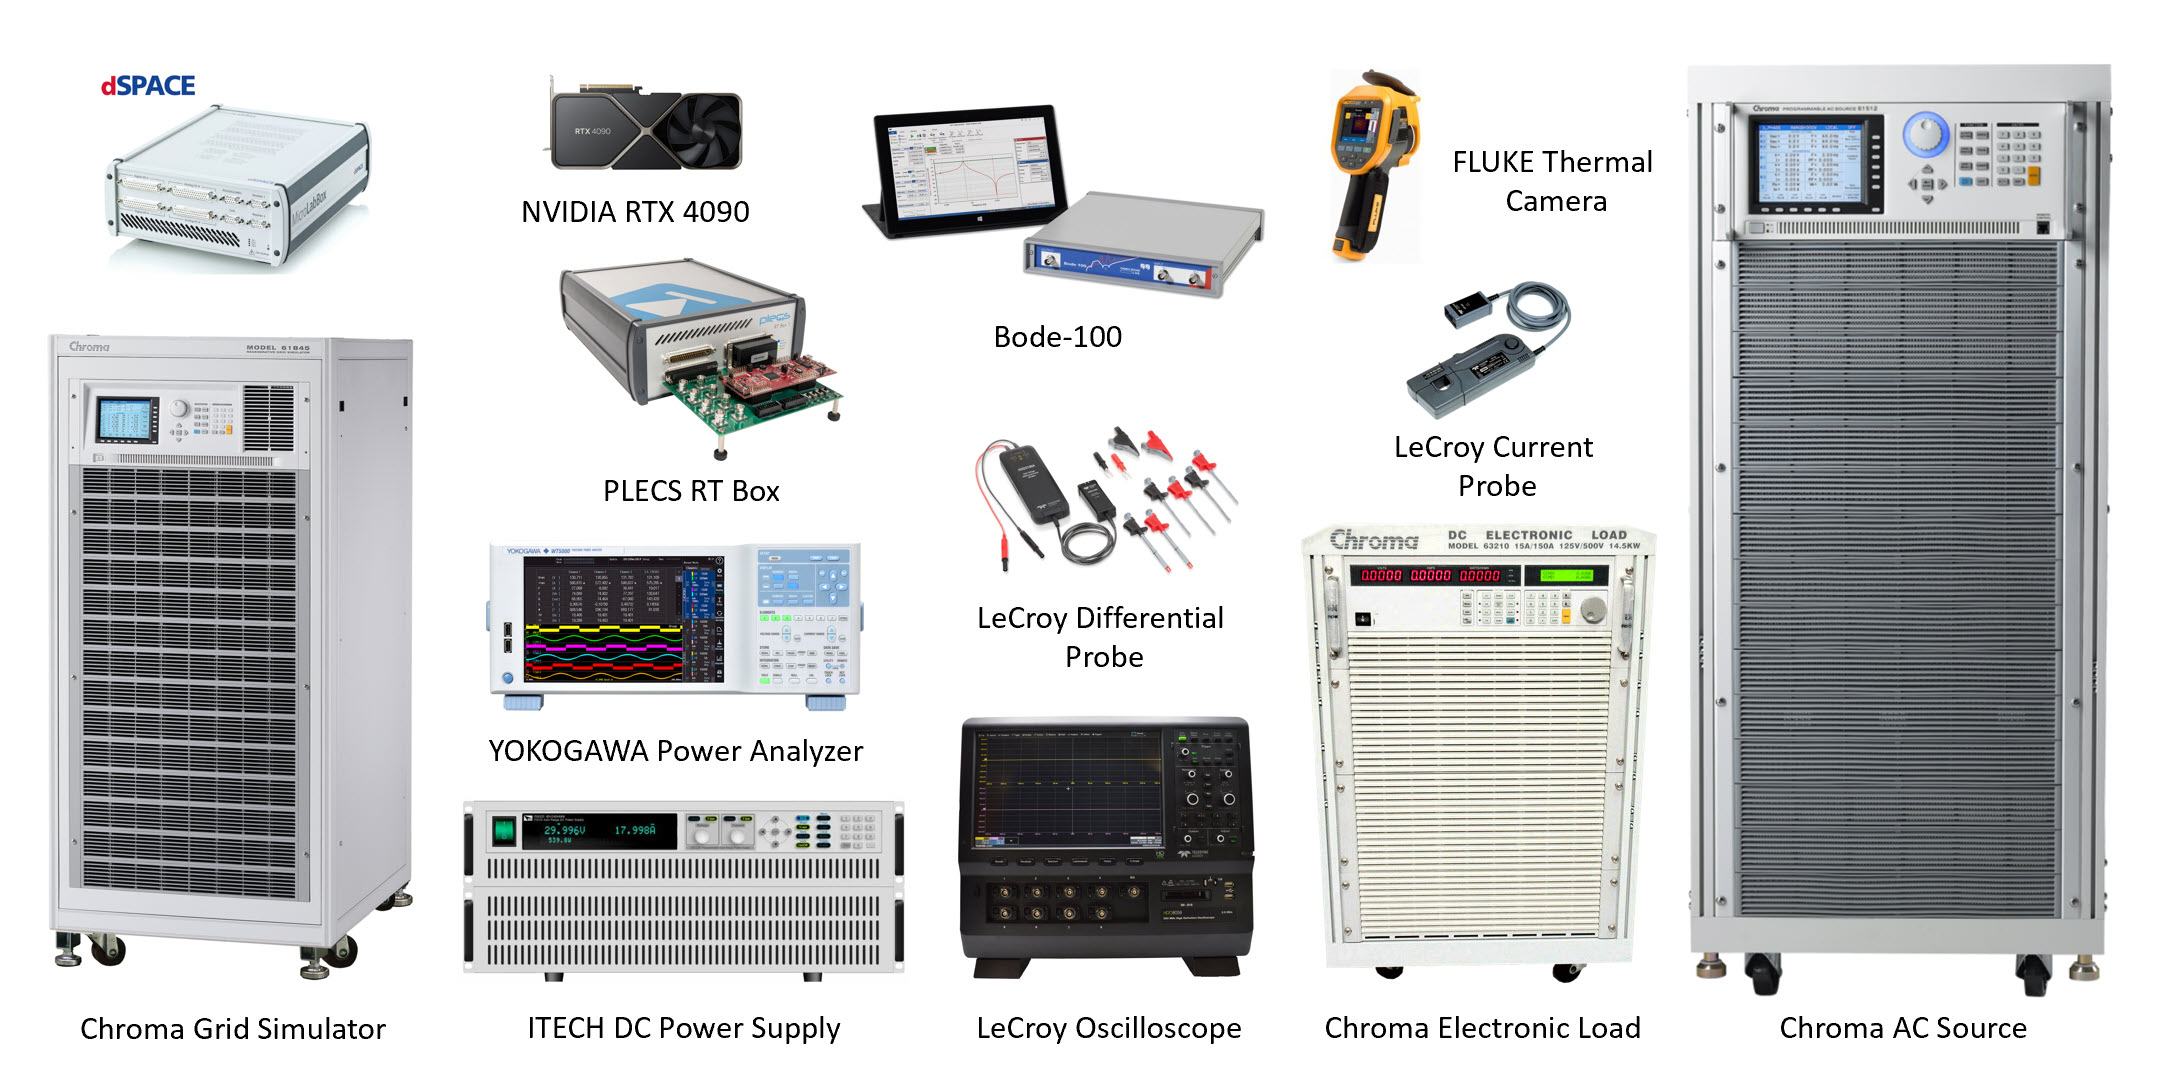
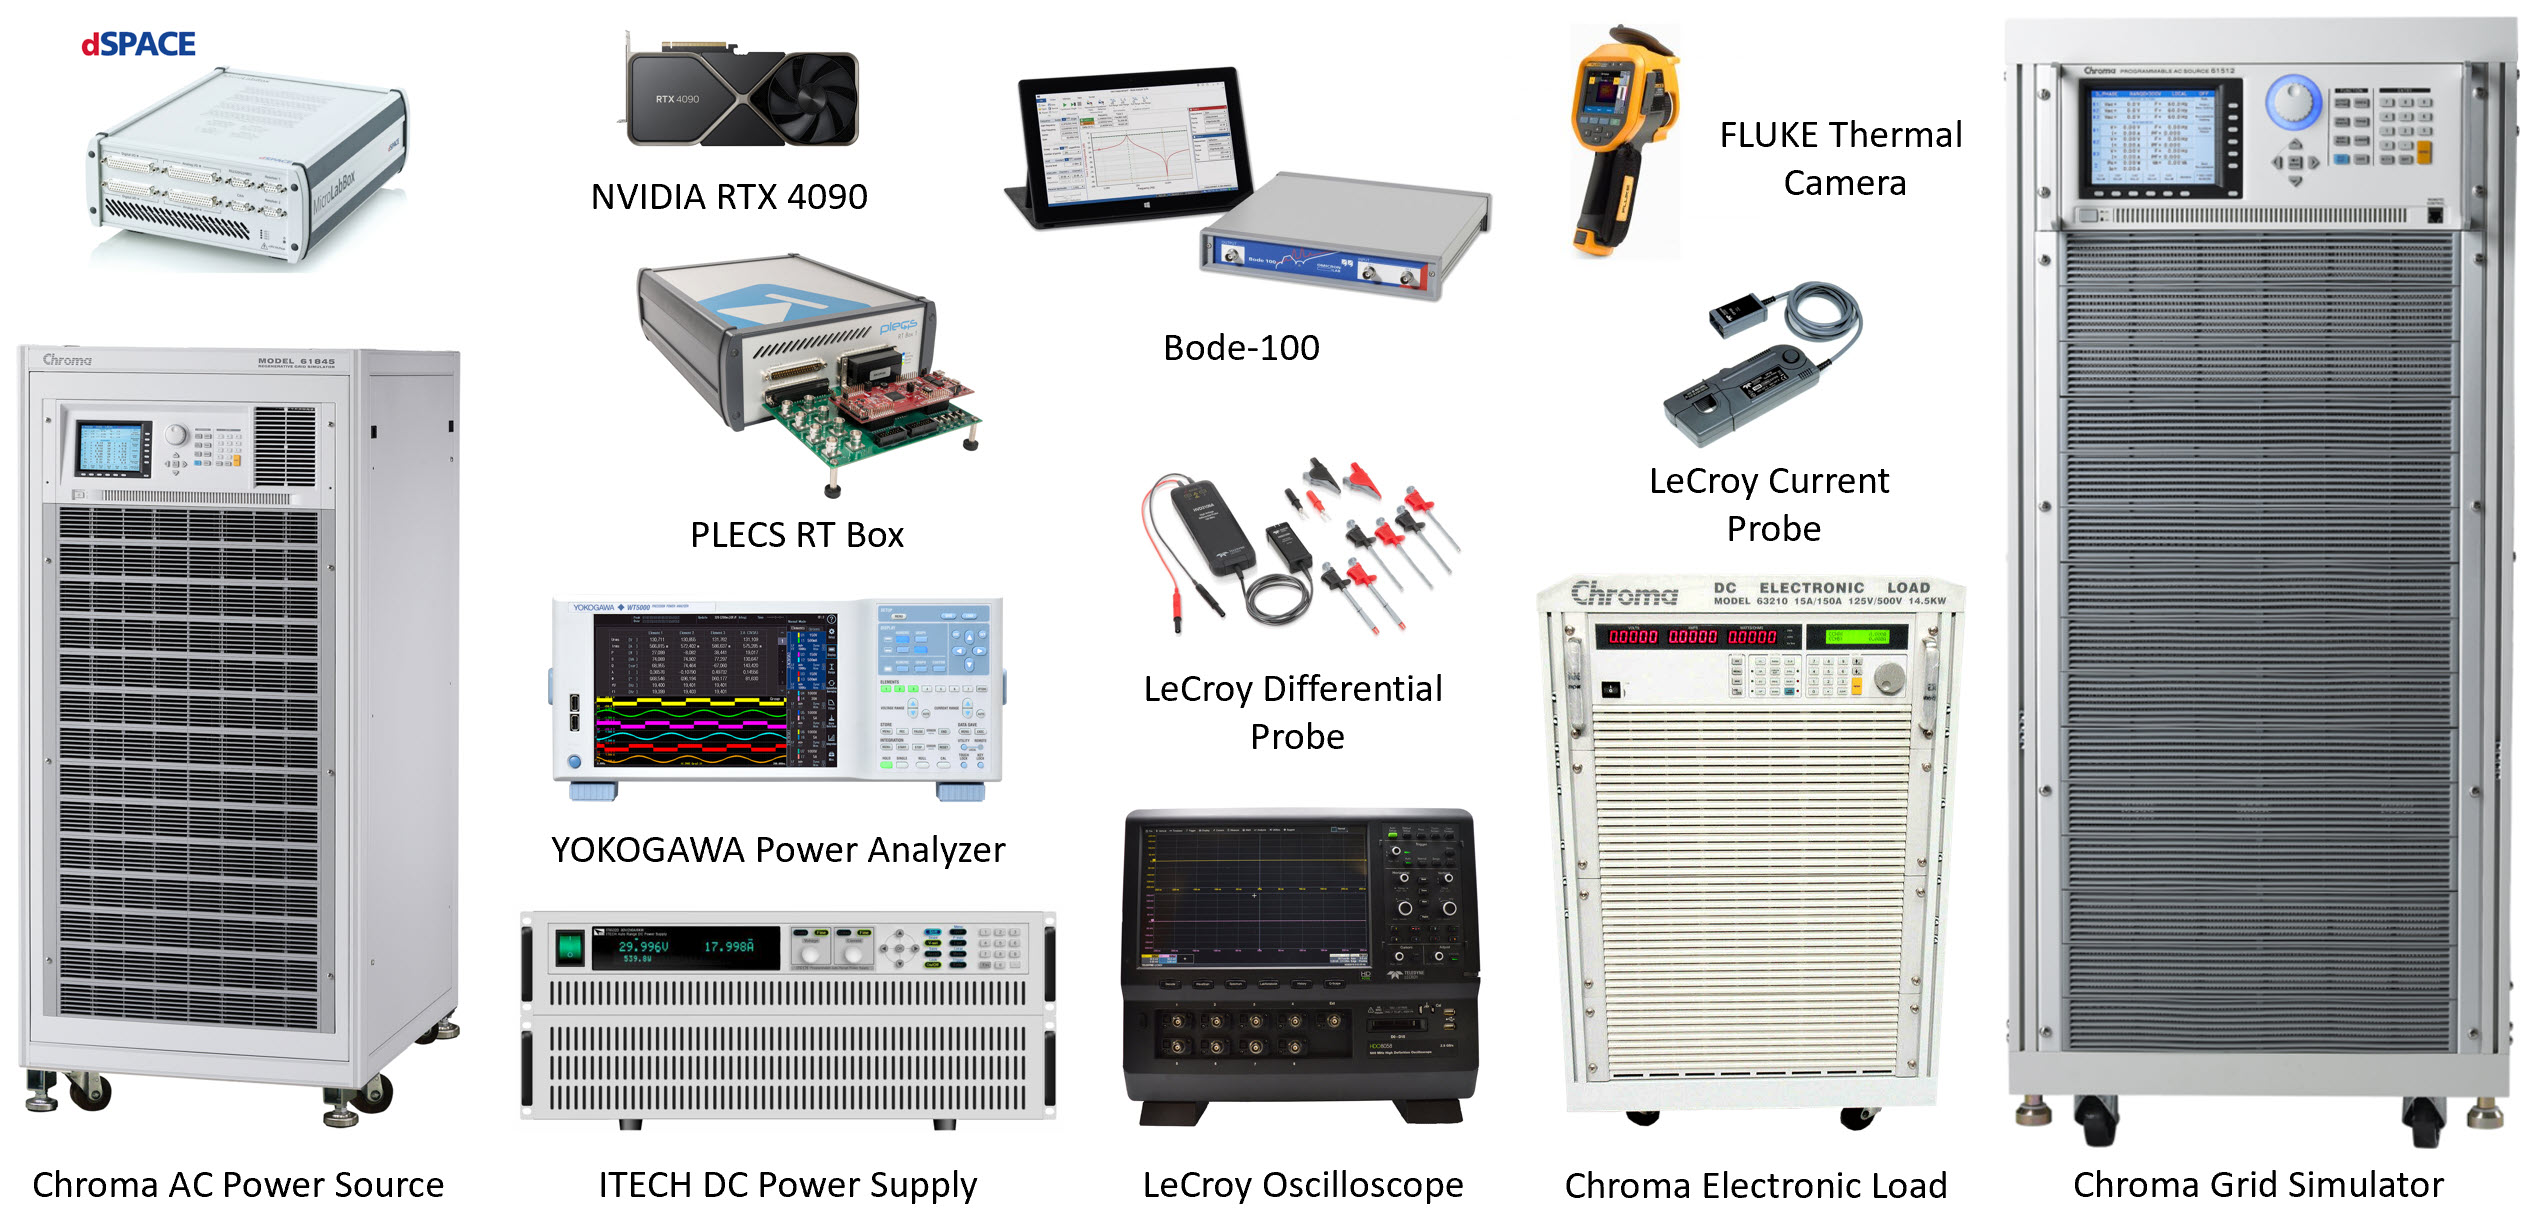
LEAP

diff --git a/index.html b/index.html
@@ -86,7 +86,8 @@
         <div class="text info">
           <h1 class="home-title">Assoc Prof Yi Tang</h1>
           <p>
-          <div>Associate Chair (Graduate Studies)</div>
+          <div>Associate Chair, Graduate (Research Studies)</div>
+          <div>SP Group Endowed Associate Professor</div>
           <div>Director of Laboratory for Electrification</div>
           <div>&amp; Advanced Power Conversion</div>
           <div>EEE, NTU</div>